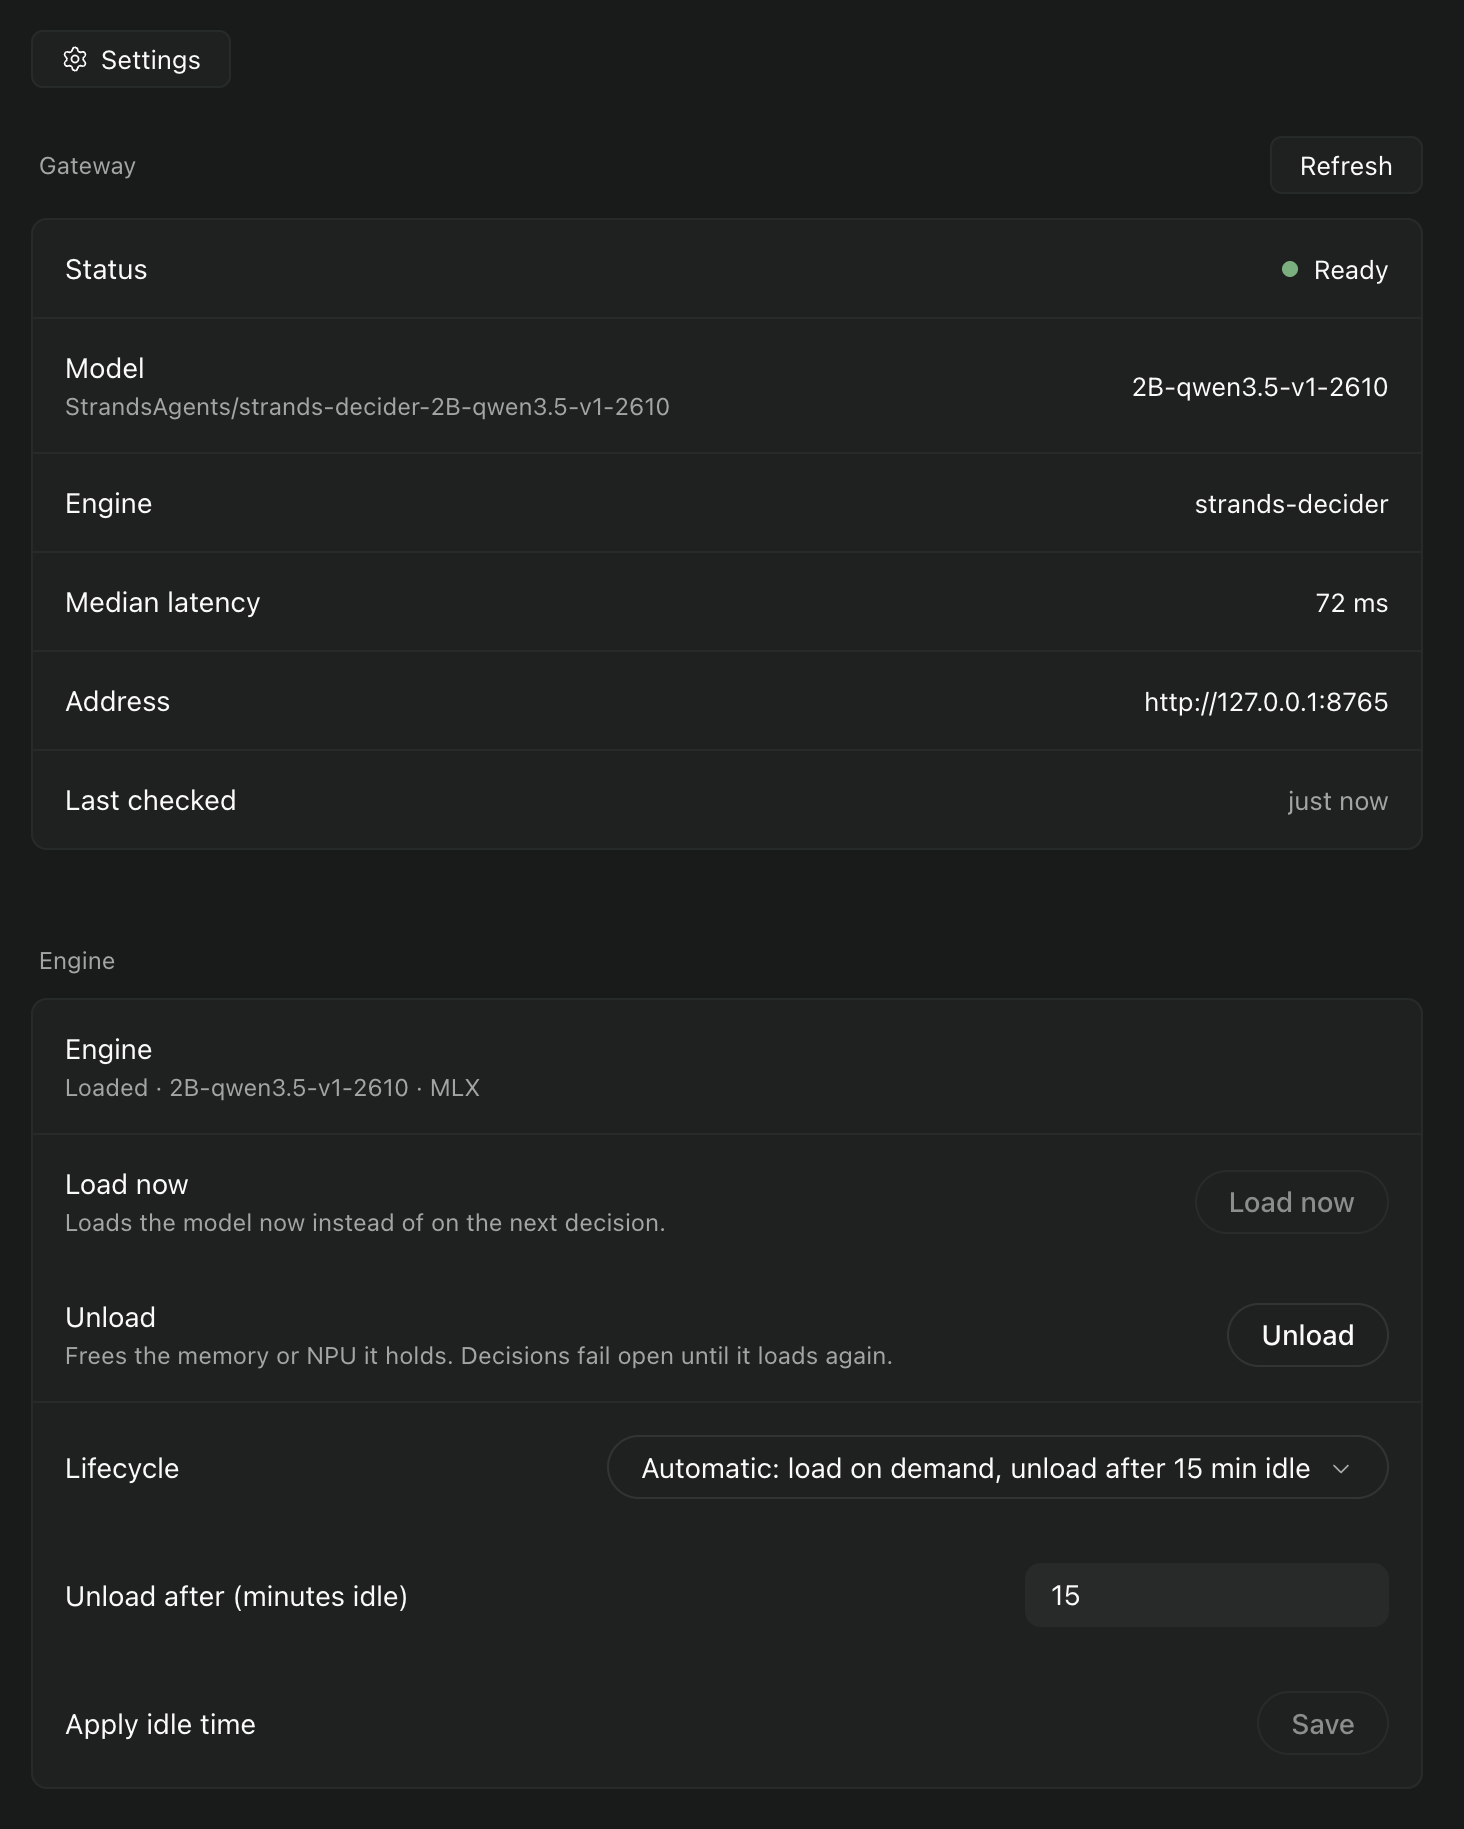
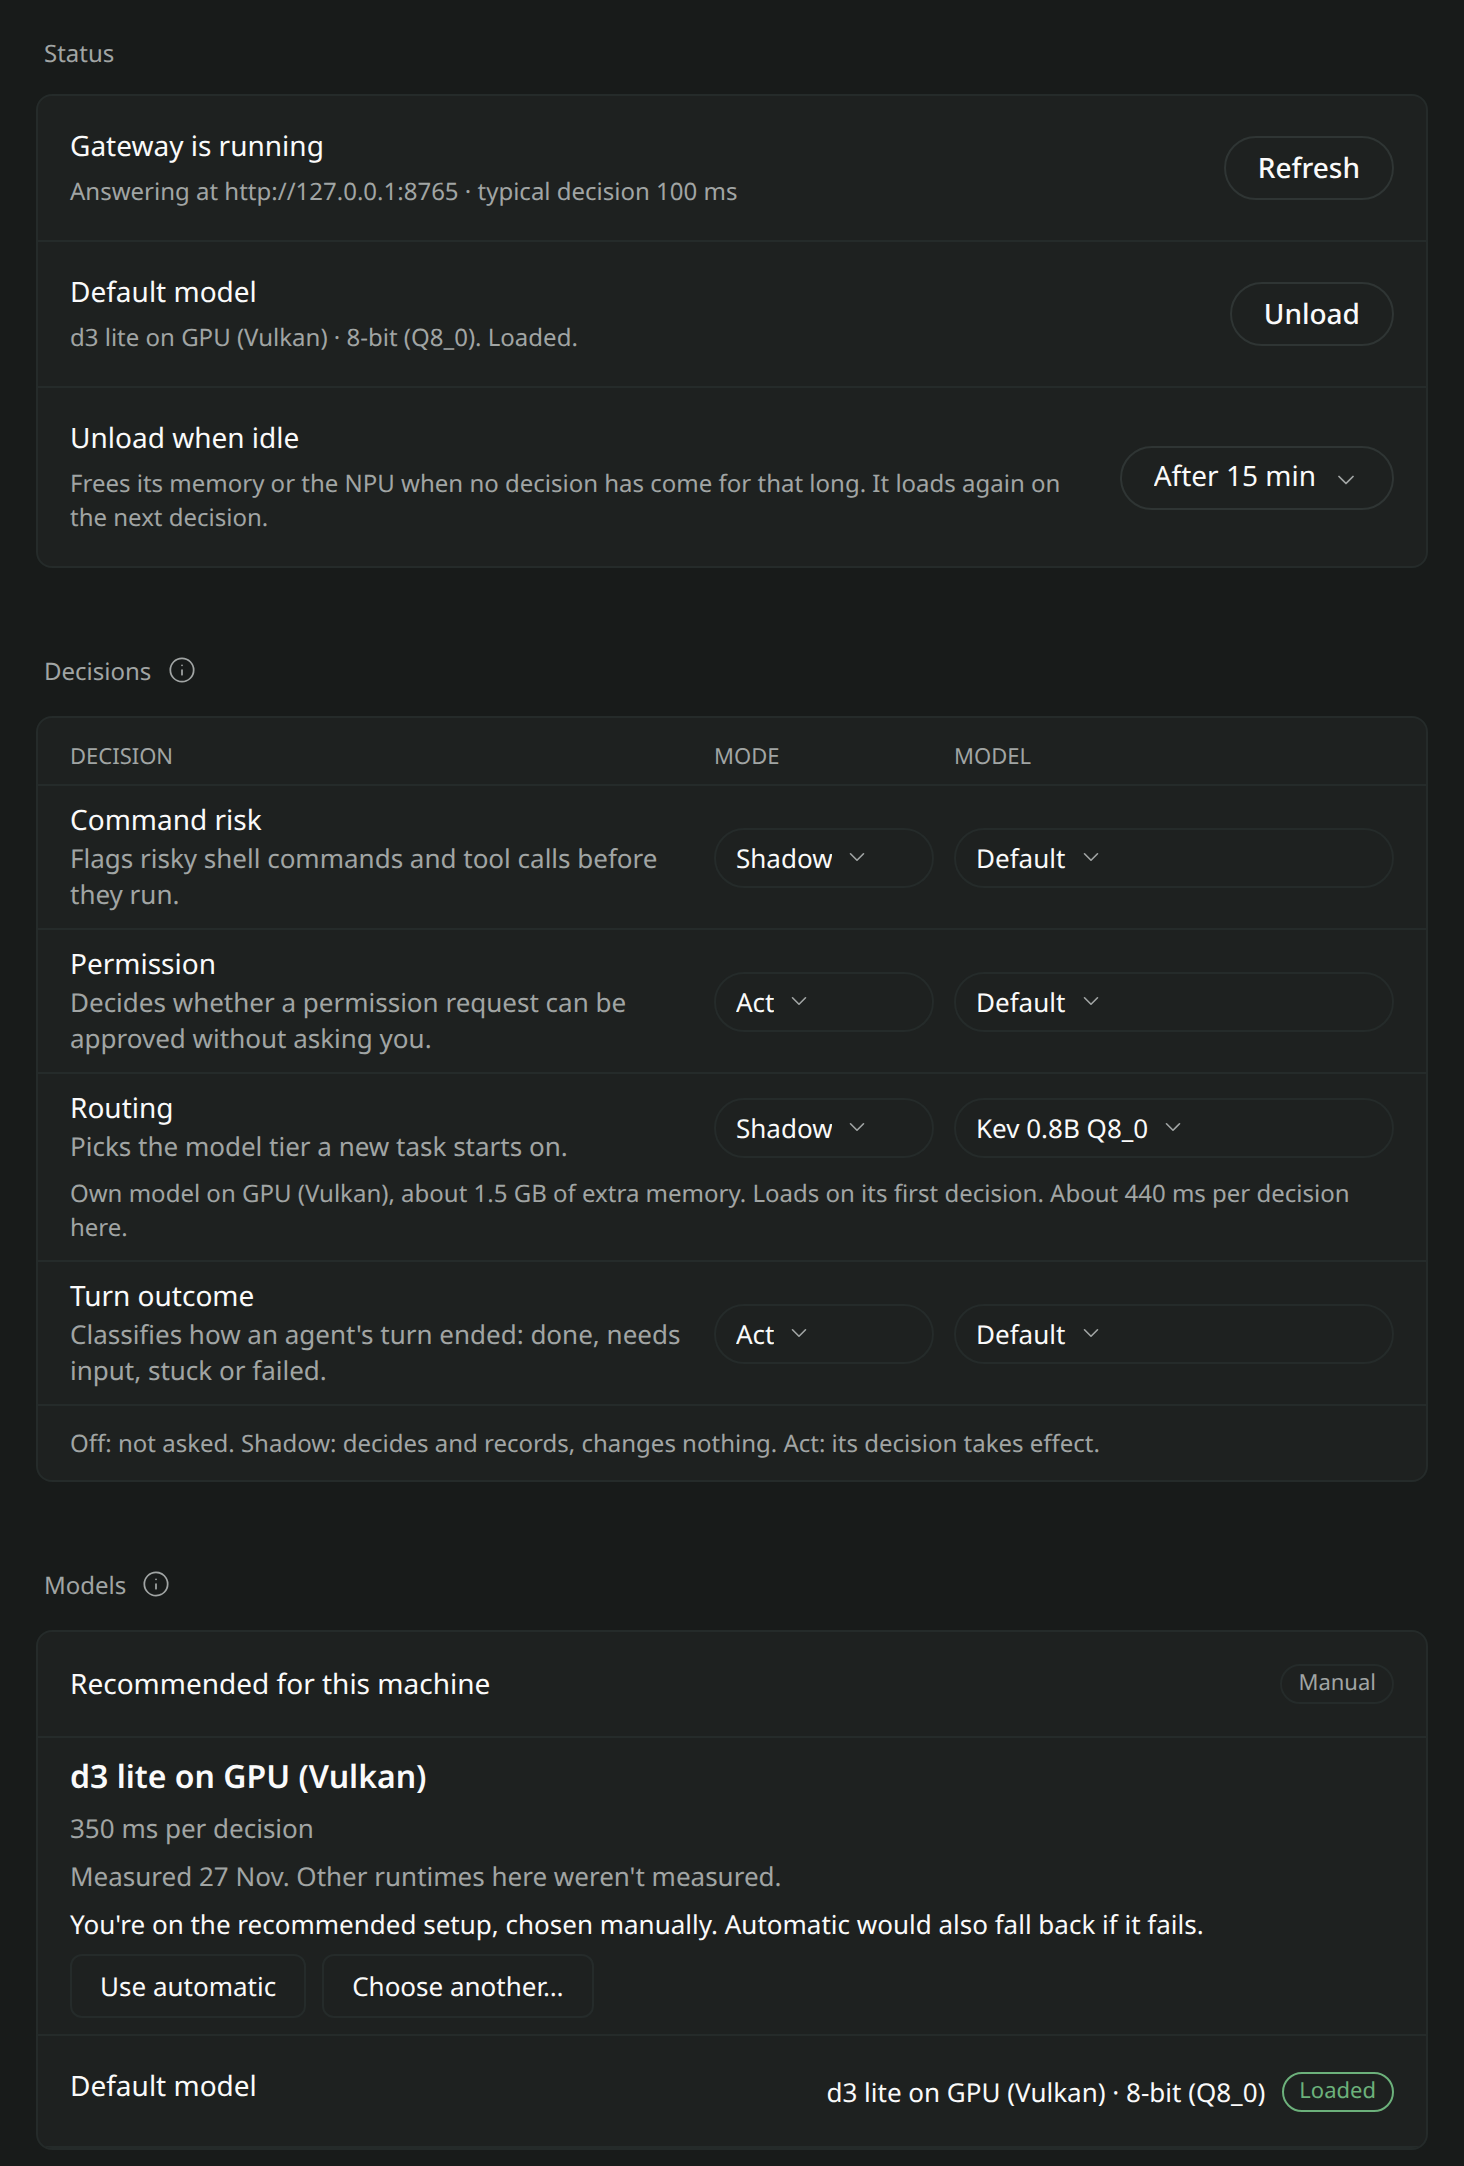
docs(paseo-plugin): replace the screenshots with the redesigned settings

diff --git a/README.md b/README.md
@@ -211,18 +211,28 @@ and feedback buttons.
 <details>
 <summary>More screenshots: quick status, settings, service and statistics</summary>
 
-Quick status from the sidebar: engine state, latency and each policy's mode.
+Quick status from the sidebar: the default model's state, latency and each decision's mode.
 
 ![Quick-status popover](docs/assets/screenshots/quick-status.png)
 
-Models section: an engine and model picker with download sizes, memory, latency and the
-FastFlowLM NPU check.
+Status and Decisions: the gateway, the default model, and one row per decision with its mode
+and its model.
+
+![Status and Decisions settings](docs/assets/screenshots/settings-decisions.png)
+
+A decision's model picker. Default follows the default model; any other model loads next to
+it. Each option shows its runtime and the speed measured on this machine.
+
+![Model picker of a decision](docs/assets/screenshots/settings-model-picker.png)
+
+Models section: the recommended setup for this machine, the default model and the benchmark
+results.
 
 ![Models settings](docs/assets/screenshots/settings-models.png)
 
-Policy modes, how decisions show in chat, and the sidebar item.
+How decisions show in chat, and the sidebar item.
 
-![Policy and display settings](docs/assets/screenshots/settings-policies.png)
+![Chat and sidebar settings](docs/assets/screenshots/settings-display.png)
 
 Gateway service controls and shadow statistics.
 
